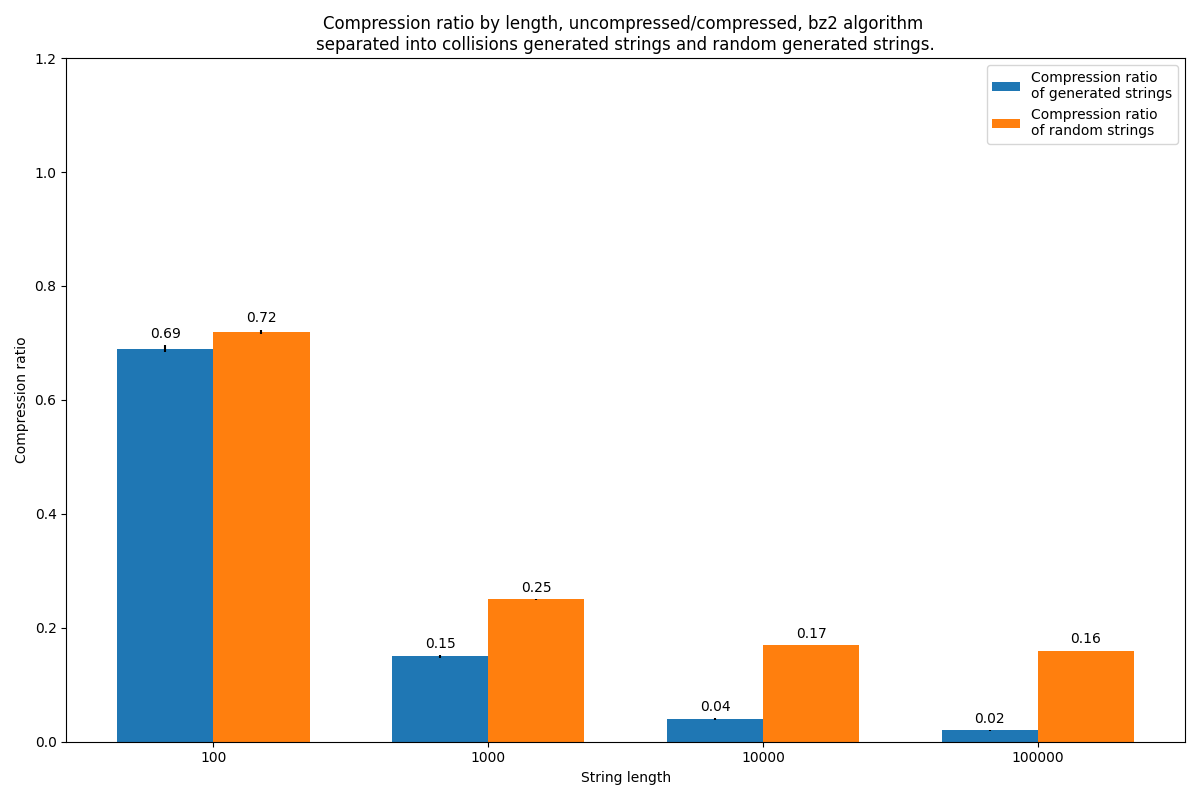
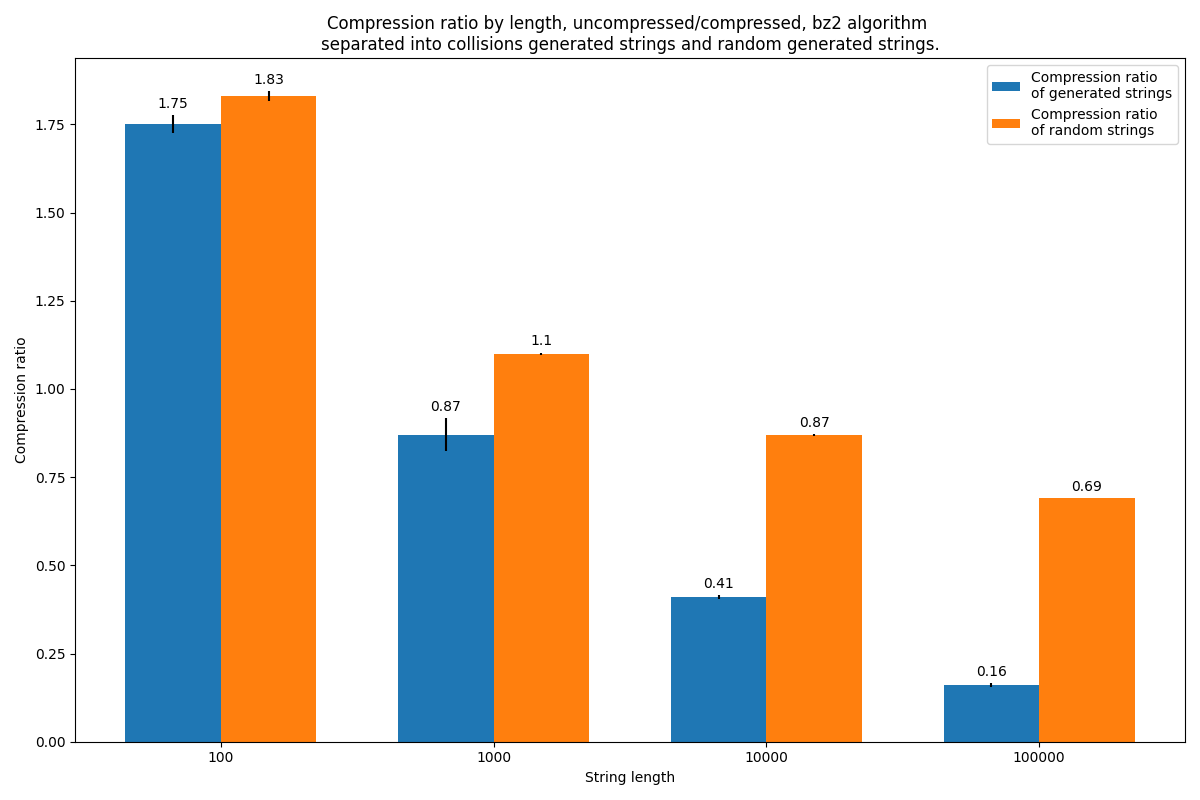
Fix compression percentages
Zlib and bz2 compression algorithms now compress the actual bytes
as opposed to string representations in memory.
To achieve this, string was subdivided into sequences of 8 characters
which were converted into bytes. There bytes were stored in memory as
byte objects and this was compressed.

diff --git a/compression_comparison/unified_plot.py b/compression_comparison/unified_plot.py
@@ -8,7 +8,7 @@ from auxiliary import *
 
 encoder = RunLengthEncoder()
 
-sizes = np.logspace(2, 6, 5)
+sizes = np.logspace(2, 5, 4)
 nSims = 10
 
 generated_sizes = []
@@ -28,9 +28,10 @@ for i in range(len(sizes)):
         string = convert_to_string(
             "particlescollide3_size{}_num{}".format(str(int(sizes[i])), str(j))
         )
-        gen_row.append(sys.getsizeof(string.encode()))
-        zlib_row.append(sys.getsizeof(zlib.compress(string.encode())))
-        bz2_row.append(sys.getsizeof(bz2.compress(string.encode())))
+        bites = convert_to_bytes_object(string)
+        gen_row.append(sys.getsizeof(bites))
+        zlib_row.append(sys.getsizeof(zlib.compress(bites)))
+        bz2_row.append(sys.getsizeof(bz2.compress(bites)))
         encoder_row.append(len(encoder.encode_b(string)))
         entropy_row.append(entropy2(string, base=2))
 
@@ -55,13 +56,13 @@ for length in lengths:
     encoder_row = []
     entropy_row = []
     for j in range(nSims):
-        random = np.random.randint(0, 2, size=length)
-        string = "".join([str(r) for r in random])
-        rand_row.append(sys.getsizeof(string.encode()))
-        zlib_row.append(sys.getsizeof(zlib.compress(string.encode())))
-        bz2_row.append(sys.getsizeof(bz2.compress(string.encode())))
-        encoder_row.append(len(encoder.encode_b(string)))
-        entropy_row.append(entropy2(string, base=2))
+        randomString = "".join([str(r) for r in np.random.randint(0, 2, size=length)])
+        bites = convert_to_bytes_object(randomString)
+        rand_row.append(sys.getsizeof(bites))
+        zlib_row.append(sys.getsizeof(zlib.compress(bites)))
+        bz2_row.append(sys.getsizeof(bz2.compress(bites)))
+        encoder_row.append(len(encoder.encode_b(randomString)))
+        entropy_row.append(entropy2(randomString, base=2))
 
     rand_sizes.append(rand_row)
     zlib_random.append(zlib_row)
@@ -118,7 +119,7 @@ ax.set_ylabel("Compression percentage")
 ax.set_title("Compression percentage by length, \n zlib compression algorithm")
 ax.set_xlabel("String length")
 ax.set_xticks(x, labels)
-ax.set_ylim(0, 0.7)
+ax.set_ylim(0, 1.4)
 ax.legend()
 ax.bar_label(rects1, padding=3)
 ax.bar_label(rects2, padding=3)
@@ -142,7 +143,7 @@ ax.set_ylabel("Compression percentage")
 ax.set_title("Compression percentage by length, \n bz2 compression algorithm")
 ax.set_xlabel("String length")
 ax.set_xticks(x, labels)
-ax.set_ylim(0, 0.9)
+ax.set_ylim(0, 2.2)
 ax.legend()
 ax.bar_label(rects1, padding=3)
 ax.bar_label(rects2, padding=3)
@@ -172,7 +173,7 @@ ax.set_ylabel("Compression percentage")
 ax.set_title("Compression percentage by length, custom compression algorithm")
 ax.set_xlabel("String length")
 ax.set_xticks(x, labels)
-ax.set_ylim(0, 1.4)
+# ax.set_ylim(0, 1.4)
 ax.legend()
 ax.bar_label(rects1, padding=3)
 ax.bar_label(rects2, padding=3)

diff --git a/compression_comparison/compresion_zlib_comparison.py b/compression_comparison/compresion_zlib_comparison.py
@@ -16,8 +16,9 @@ for i in range(len(sizes)):
         string = convert_to_string(
             "particlescollide3_size{}_num{}".format(str(int(sizes[i])), str(j))
         )
-        size = sys.getsizeof(string.encode())
-        comp_size = sys.getsizeof(zlib.compress(string.encode()))
+        bites = convert_to_bytes_object(string)
+        size = sys.getsizeof(bites)
+        comp_size = sys.getsizeof(zlib.compress(bites))
 
         gen_sized.append(size)
         comp_gen_sized.append(comp_size)
@@ -33,10 +34,10 @@ for length in lengths:
     rand_sized = []
     comp_rand_sized = []
     for j in range(nSims):
-        random = np.random.randint(0, 2, size=length)
-        random = "".join([str(r) for r in random])
-        size = sys.getsizeof(random.encode())
-        comp_size = sys.getsizeof(zlib.compress(random.encode()))
+        randomString = "".join([str(r) for r in np.random.randint(0, 2, size=length)])
+        bites = convert_to_bytes_object(randomString)
+        size = sys.getsizeof(bites)
+        comp_size = sys.getsizeof(zlib.compress(bites))
 
         rand_sized.append(size)
         comp_rand_sized.append(comp_size)
@@ -92,7 +93,7 @@ ax.set_ylabel("Compression percentage")
 ax.set_title("Compression percentage, zlib compression algorithm")
 ax.set_xlabel("String length")
 ax.set_xticks(x, labels)
-ax.set_ylim(0, 0.8)
+ax.set_ylim(0, 1.2)
 ax.legend()
 
 ax.bar_label(rects1, padding=3)

diff --git a/compression_comparison/compression_bz2_comparison.py b/compression_comparison/compression_bz2_comparison.py
@@ -16,8 +16,9 @@ for i in range(len(sizes)):
         string = convert_to_string(
             "particlescollide3_size{}_num{}".format(str(int(sizes[i])), str(j))
         )
-        size = sys.getsizeof(string.encode())
-        comp_size = sys.getsizeof(bz2.compress(string.encode()))
+        bites = convert_to_bytes_object(string)
+        size = sys.getsizeof(bites)
+        comp_size = sys.getsizeof(bz2.compress(bites))
 
         gen_sized.append(size)
         comp_gen_sized.append(comp_size)
@@ -33,10 +34,10 @@ for length in lengths:
     rand_sized = []
     comp_rand_sized = []
     for j in range(nSims):
-        random = np.random.randint(0, 2, size=length)
-        random = "".join([str(r) for r in random])
-        size = sys.getsizeof(random.encode())
-        comp_size = sys.getsizeof(bz2.compress(random.encode()))
+        randomString = "".join([str(r) for r in np.random.randint(0, 2, size=length)])
+        bites = convert_to_bytes_object(randomString)
+        size = sys.getsizeof(bites)
+        comp_size = sys.getsizeof(bz2.compress(bites))
 
         rand_sized.append(size)
         comp_rand_sized.append(comp_size)
@@ -93,7 +94,7 @@ ax.set_title(
 )
 ax.set_xlabel("String length")
 ax.set_xticks(x, labels)
-ax.set_ylim(0, 1.2)
+# ax.set_ylim(0, 1.5)
 ax.legend()
 
 ax.bar_label(rects1, padding=3)

diff --git a/compression_comparison/auxiliary.py b/compression_comparison/auxiliary.py
@@ -31,6 +31,41 @@ def convert_to_string(tableName):
     return string
 
 
+def convert_to_bytes_object(string, bitsToBytes=8):
+    """Only use on binary strings"""
+    bites = b""
+    i = 0
+    while i < len(string) - bitsToBytes:
+        bits = int_to_bytes(int(string[i : i + bitsToBytes], 2))
+        i += bitsToBytes
+        bites += bits
+
+    if i != len(string):
+        finalBits = int_to_bytes(int(string[i:], 2))
+        bites += finalBits
+
+    return bites
+
+
+def int_to_bytes(input_int):
+    isinstance(input_int, int) or exit(99)
+    (input_int >= 0) or exit(98)
+    if input_int == 0:
+        return bytes([0])
+    L1 = []
+
+    num_bits = input_int.bit_length()
+
+    while input_int:
+        L1[0:0] = [(input_int & 0xFF)]
+        input_int >>= 8
+
+    if (num_bits % 8) == 0:
+        L1[0:0] = [0]
+
+    return bytes(L1)
+
+
 def jacknife_error(data):
     mean = np.mean(data)
     errors = []

diff --git a/binary_test.py b/binary_test.py
@@ -1,0 +1,22 @@
+from sys import getsizeof
+import zlib
+import random
+
+
+def int_to_bytes(input_int):
+    isinstance(input_int, int) or exit(99)
+    (input_int >= 0) or exit(98)
+    if input_int == 0:
+        return bytes([0])
+    L1 = []
+
+    num_bits = input_int.bit_length()
+
+    while input_int:
+        L1[0:0] = [(input_int & 0xFF)]
+        input_int >>= 8
+
+    if (num_bits % 8) == 0:
+        L1[0:0] = [0]
+
+    return bytes(L1)
